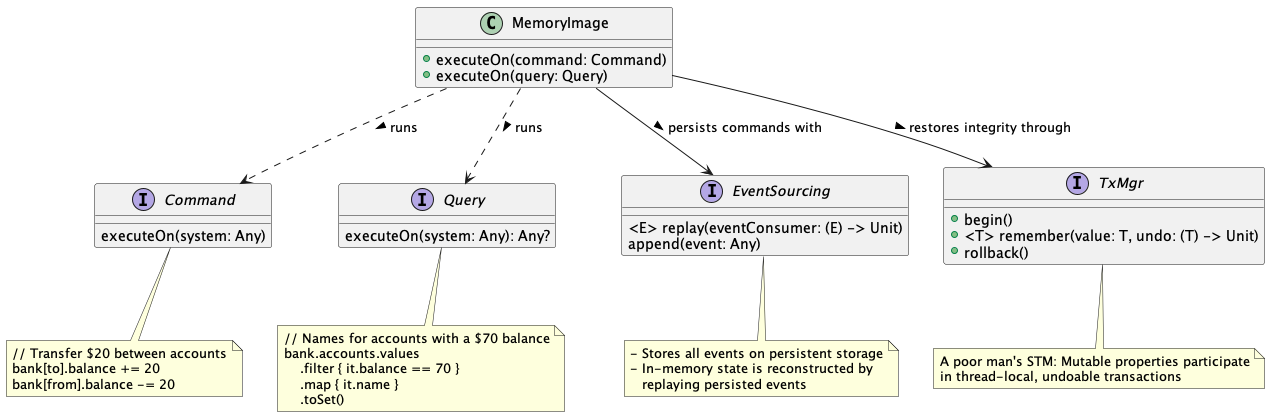
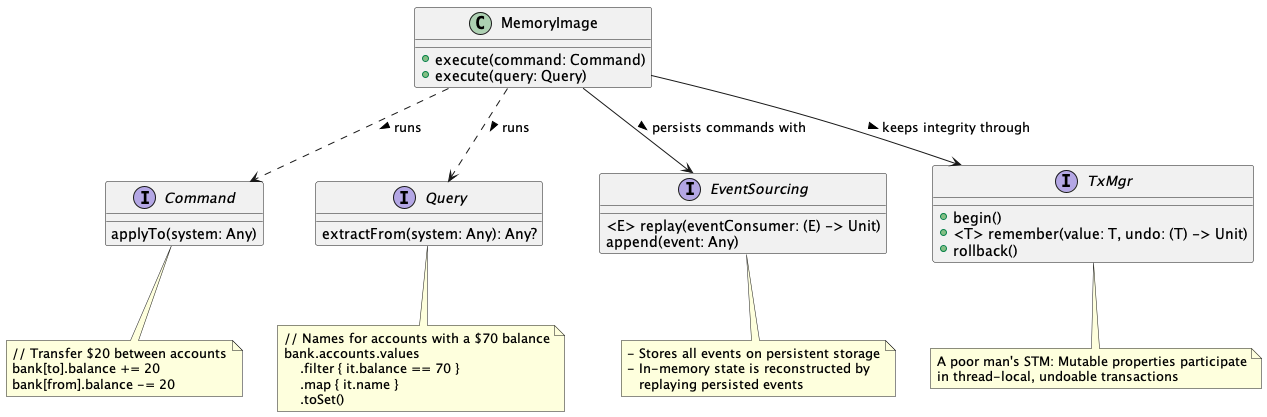
Refactored for clarity of intention (but not so much for economy of expression 🤔)

diff --git a/src/test/kotlin/memimg/MemImgTest.kt b/src/test/kotlin/memimg/MemImgTest.kt
@@ -7,23 +7,14 @@ import kotlin.test.assertContains
 import kotlin.test.assertEquals
 
 class MemImgTest {
-
-    companion object {
-        init {
-            initLogger()
-        }
-    }
-
     @Test
-    fun `runs with JSON file event sourcing`() {
+    fun `Builds and restores systems state with JSON file event sourcing`() {
         val file = File.createTempFile("bank", ".json")
-        `builds and restores domain model state`(LineFileEventSourcing(file, BankJsonConverter))
-        println(file.readText())
-    }
+        val eventSourcing = LineFileEventSourcing(file, BankJsonConverter)
 
-    private fun `builds and restores domain model state`(eventSourcing: EventSourcing) {
         val bank1 = Bank()
         val memimg1 = MemImg(bank1, eventSourcing)
+
         memimg1.execute(CreateAccount("janet", "Janet Doe"))
         assertEquals(Amount.ZERO, bank1.accounts["janet"]!!.balance)
 
@@ -47,13 +38,14 @@ class MemImgTest {
 
         val bank2 = Bank()
         val memimg2 = MemImg(bank2, eventSourcing)
+
         // Look ma: system state restored from empty initial state and event sourcing!
         assertEquals(Amount(70), bank2.accounts["janet"]!!.balance)
         assertEquals(Amount(70), bank2.accounts["john"]!!.balance)
 
         // Some random query; executes at in-memory speeds
         val accountsWith70 = memimg2.execute(object : BankQuery {
-            override fun executeOn(bank: Bank) =
+            override fun extractFrom(bank: Bank) =
                 bank.accounts.values
                     .filter { it.balance == Amount(70) }
                     .map { it.name }
@@ -75,5 +67,11 @@ class MemImgTest {
         assertEquals(Amount(60), bank2.accounts["john"]!!.balance)
 
         memimg2.close()
+    }
+
+    companion object {
+        init {
+            initLogger()
+        }
     }
 }

diff --git a/src/test/kotlin/memimg/Bank.kt b/src/test/kotlin/memimg/Bank.kt
@@ -27,26 +27,26 @@ data class Account(val id: String, val name: String) {
 
 /* 2) Application commands: Deposit, Withdrawal, Transfer */
 interface BankCommand : Command {
-    fun executeOn(bank: Bank)
-    override fun executeOn(system: Any) = executeOn(system as Bank)
+    fun applyTo(bank: Bank)
+    override fun applyTo(system: Any) = applyTo(system as Bank)
 }
 
 interface BankQuery : Query {
-    fun executeOn(bank: Bank): Any?
-    override fun executeOn(system: Any) = executeOn(system as Bank)
+    fun extractFrom(bank: Bank): Any?
+    override fun extractFrom(system: Any) = extractFrom(system as Bank)
 }
 
 interface AccountCommand : BankCommand {
     val accountId: String
     fun executeOn(account: Account)
-    override fun executeOn(bank: Bank) {
+    override fun applyTo(bank: Bank) {
         executeOn(bank.accounts[accountId]!!)
     }
 }
 
 @Serializable
 data class CreateAccount(val id: String, val name: String) : BankCommand {
-    override fun executeOn(bank: Bank) {
+    override fun applyTo(bank: Bank) {
         bank.accounts[id] = Account(id, name)
     }
 }
@@ -68,10 +68,10 @@ data class Withdrawal(override val accountId: String, @Contextual val amount: Am
 @Serializable
 data class Transfer(val fromAccountId: String, val toAccountId: String, @Contextual val amount: Amount) :
     BankCommand {
-    override fun executeOn(bank: Bank) {
+    override fun applyTo(bank: Bank) {
         // Operation order deliberately set so as to exercise rollback...
-        Deposit(toAccountId, amount).executeOn(bank)
-        Withdrawal(fromAccountId, amount).executeOn(bank)
+        Deposit(toAccountId, amount).applyTo(bank)
+        Withdrawal(fromAccountId, amount).applyTo(bank)
     }
 }
 

diff --git a/src/main/kotlin/memimg/MemImg.kt b/src/main/kotlin/memimg/MemImg.kt
@@ -3,18 +3,18 @@ package memimg
 import java.util.logging.Logger
 
 interface Command {
-    fun executeOn(system: Any)
+    fun applyTo(system: Any)
 }
 
 interface Query {
-    fun executeOn(system: Any): Any?
+    fun extractFrom(system: Any): Any?
 }
 
 class MemImg(private val system: Any, private val eventSourcing: EventSourcing) : AutoCloseable {
 
     init {
         synchronized(this) {
-            eventSourcing.replay<Command> { e -> e.executeOn(system) }
+            eventSourcing.replay<Command> { command -> command.applyTo(system) }
         }
     }
 
@@ -22,7 +22,7 @@ class MemImg(private val system: Any, private val eventSourcing: EventSourcing) 
         synchronized(this) {
             TxManager.begin()
             try {
-                command.executeOn(system)
+                command.applyTo(system)
                 eventSourcing.append(command)
             } catch (e: Exception) {
                 TxManager.rollback()
@@ -31,7 +31,7 @@ class MemImg(private val system: Any, private val eventSourcing: EventSourcing) 
             }
         }
 
-    fun execute(query: Query): Any? = query.executeOn(system)
+    fun execute(query: Query): Any? = query.extractFrom(system)
 
     override fun close() {
         if (eventSourcing is AutoCloseable) {

diff --git a/README.md b/README.md
@@ -4,32 +4,34 @@
 
 A simple Kotlin implementation of the
 [Memory Image](https://www.martinfowler.com/bliki/MemoryImage.html)
-pattern:
+architectural pattern:
 
 ```kotlin
 class MemImg(private val system: Any, 
-             private val BankEventSourcing: EventSourcing) {
+             private val eventSourcing: EventSourcing) {
 
     init {
         synchronized(this) {
-            BankEventSourcing.replay<Command> { e -> e.executeOn(system) }
+            eventSourcing.replay<Command> { 
+                command -> command.applyTo(system) 
+            }
         }
     }
 
-    fun executeOn(command: Command): Unit =
-        synchronized(this) { // Single-threaded, lightning-fast
-            TxManager.begin()
-            try {
-                command.executeOn(system)
-                BankEventSourcing.append(command)
-            } catch (e: Exception) {
-                TxManager.rollback()
-                logger.severe("Error in command: ${e.message}")
-                throw e
-            }
+    // Single-threaded, lightning-fast
+    fun execute(command: Command): Unit = synchronized(this) {
+        TxManager.begin()
+        try {
+            command.applyTo(system)
+            eventSourcing.append(command)
+        } catch (e: Exception) {
+            TxManager.rollback()
+            logger.severe("Error in command: ${e.message}")
+            throw e
         }
+    }
 
-    fun executeOn(query: Query): Any? = query.executeOn(system)
+    fun execute(query: Query): Any? = query.extractFrom(system)
 }
 ```
 
@@ -46,54 +48,52 @@ class MemImgTest {
     data class Bank(val accounts: MutableMap<String, Account> = HashMap())
     
     data class Account(val id: String, val name: String) {
+        // Mutable properties participate in transactions
         var balance: Amount by TxDelegate(Amount.ZERO) { it >= Amount.ZERO }
     }
     
-    /* 2) Application commands: Deposit, Withdrawal, Transfer */
+    /* 2) Application commands: CreateAccount, Deposit, Withdrawal, Transfer */
     interface BankCommand : Command {
-        fun executeOn(bank: Bank)
-        override fun executeOn(system: Any) = executeOn(system as Bank)
+        fun applyTo(bank: Bank)
+        override fun applyTo(system: Any) = executeOn(system as Bank)
     }
     interface BankQuery : Query {
-        fun executeOn(bank: Bank): Any?
-        override fun executeOn(system: Any) = executeOn(system as Bank)
+        fun extractFrom(bank: Bank): Any?
+        override fun extractFrom(system: Any) = executeOn(system as Bank)
     }
     interface AccountCommand : BankCommand {
         val accountId: String
-        fun executeOn(account: Account)
-        override fun executeOn(bank: Bank) {
-            executeOn(bank.accounts[accountId]!!)
+        fun applyTo(account: Account)
+        override fun applyTo(bank: Bank) {
+            applyTo(bank.accounts[accountId]!!)
         }
     }
     
     data class CreateAccount(val id: String, val name: String) : BankCommand {
-        override fun executeOn(bank: Bank) {
+        override fun applyTo(bank: Bank) {
             bank.accounts[id] = Account(id, name)
         }
     }    
-    
     data class Deposit(override val accountId: String, val amount: Amount) : AccountCommand {
-        override fun executeOn(account: Account) {
+        override fun applyTo(account: Account) {
             account.balance += amount
         }
     }
-    
     data class Withdrawal(override val accountId: String,val amount: Amount) : AccountCommand {
-        override fun executeOn(account: Account) {
+        override fun applyTo(account: Account) {
             account.balance -= amount
         }
     }
-    
     data class Transfer(val fromAccountId: String, val toAccountId: String, val amount: Amount) : BankCommand {
-        override fun executeOn(bank: Bank) {
-            // Operation order deliberately set so as to exercise rollback...
-            Deposit(toAccountId, amount).executeOn(bank)
-            Withdrawal(fromAccountId, amount).executeOn(bank)
+        override fun applyTo(bank: Bank) {
+            // Operation order deliberately set so as to benefit from rollback...
+            Deposit(toAccountId, amount).applyTo(bank)
+            Withdrawal(fromAccountId, amount).applyTo(bank)
         }
     }
 
     // In-memory, volatile, non-persistent event sourcing
-    // Check actual source code for the (JSON File) real thing™
+    // Check implementation for the (JSON File) real thing™
     object BankEventSourcing : EventSourcing {
         private val buffer = mutableListOf<Any>()
         override fun <E> replay(eventConsumer: (E) -> Unit) = buffer.forEach{eventConsumer(it as E)}
@@ -128,7 +128,7 @@ class MemImgTest {
 
         val bank2 = Bank()
         val memimg2 = MemImg(bank2, BankEventSourcing)
-        // Look ma: system state restored from empty initial state and event sourcing!
+        // Look ma: system state restored from empty initial state via event sourcing!
         assertEquals(Amount(70), bank2.accounts["janet"]!!.balance)
         assertEquals(Amount(70), bank2.accounts["john"]!!.balance)
 
@@ -150,10 +150,6 @@ class MemImgTest {
         // Look ma: system state restored on failure after partial mutation
         assertEquals(Amount(70), bank2.accounts["janet"]!!.balance)
         assertEquals(Amount(70), bank2.accounts["john"]!!.balance)
-
-        memimg2.execute(Transfer("john", "janet", Amount(10)))
-        assertEquals(Amount(80), bank2.accounts["janet"]!!.balance)
-        assertEquals(Amount(60), bank2.accounts["john"]!!.balance)
 
         memimg2.close()
     }
